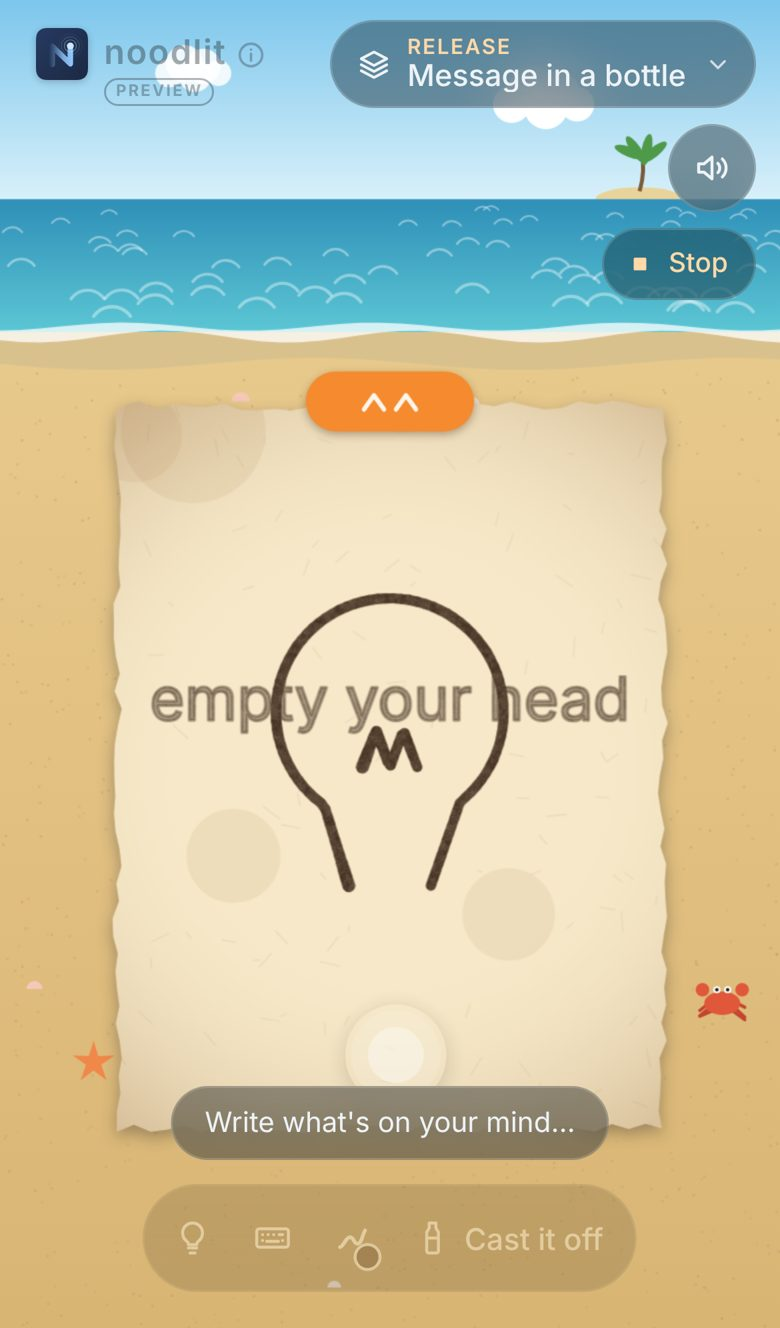
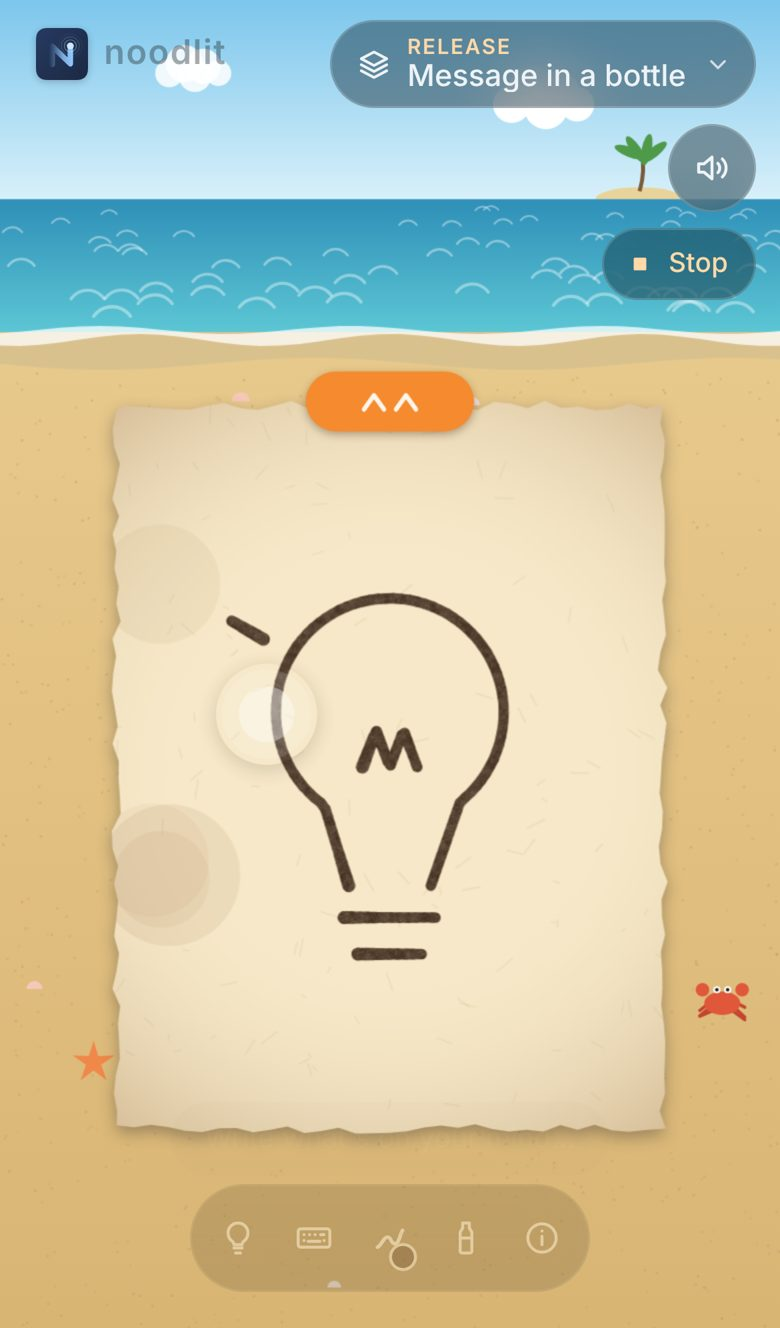
Show me: start from a blank surface
Fade scenes play their own clear before the doodle; Release scenes get a
fresh sheet in place, so the bulb never lands on the intro prompt. This
commit missed PR #32's merge. No version bump: versions are stamped at
deploy time from now on (PR #34).

Claude-Session: https://claude.ai/code/session_01T4A7rpDZkmLw5a6ACLRc1U

diff --git a/www/src/demo.js b/www/src/demo.js
@@ -1,6 +1,6 @@
 // "Show me": a short, hands-off demo of the current scene. A ghost fingertip draws a little
 // lightbulb through the same stroke calls a real finger uses, so it works on every scene, then
-// the scene does its thing: Fade scenes fade (sped up so you don't wait 20 s), Release scenes
+// the scene does its thing (after wiping whatever was there): Fade scenes fade (sped up so you don't wait 20 s), Release scenes
 // send the sheet off. Any touch, tap or key stops it and hands the surface back.
 
 // The doodle, in a unit box (0..1, y down). Each entry is one stroke, as a list of points.
@@ -73,9 +73,30 @@ export function createDemo(host, finger) {
     finger.classList.add('show');
   }
 
+  // Start from a blank surface so the doodle doesn't land on the intro prompt. Fade scenes
+  // play their own clear (steam, eraser, rain…); Release scenes just get a fresh sheet in place.
+  async function blank(env, me) {
+    if (host.mode() === 'release') {
+      if (env.sheet && env.newSheet) { env.sheet = env.newSheet(); env.strokes?.clear(); }
+      else if (env.board && env.newBoard) { env.board = env.newBoard(); env.strokes?.clear(); }
+      host.wake();
+      return;
+    }
+    env.clear();
+    host.wake();
+    const t0 = performance.now();
+    while (env.clearing && performance.now() - t0 < 2500) {
+      await nextFrame();
+      if (run !== me) return;
+    }
+    await sleep(150, me);
+  }
+
   async function play() {
     const me = run;
     const env = host.env();
+    await blank(env, me);
+    if (run !== me) return;
     const { W, H } = host.size();
     const b = box(env, W, H);
     const strokes = lightbulb().map((s) => resample(s.map(([u, v]) => [b.x + u * b.s, b.y + v * b.s]), 4));
